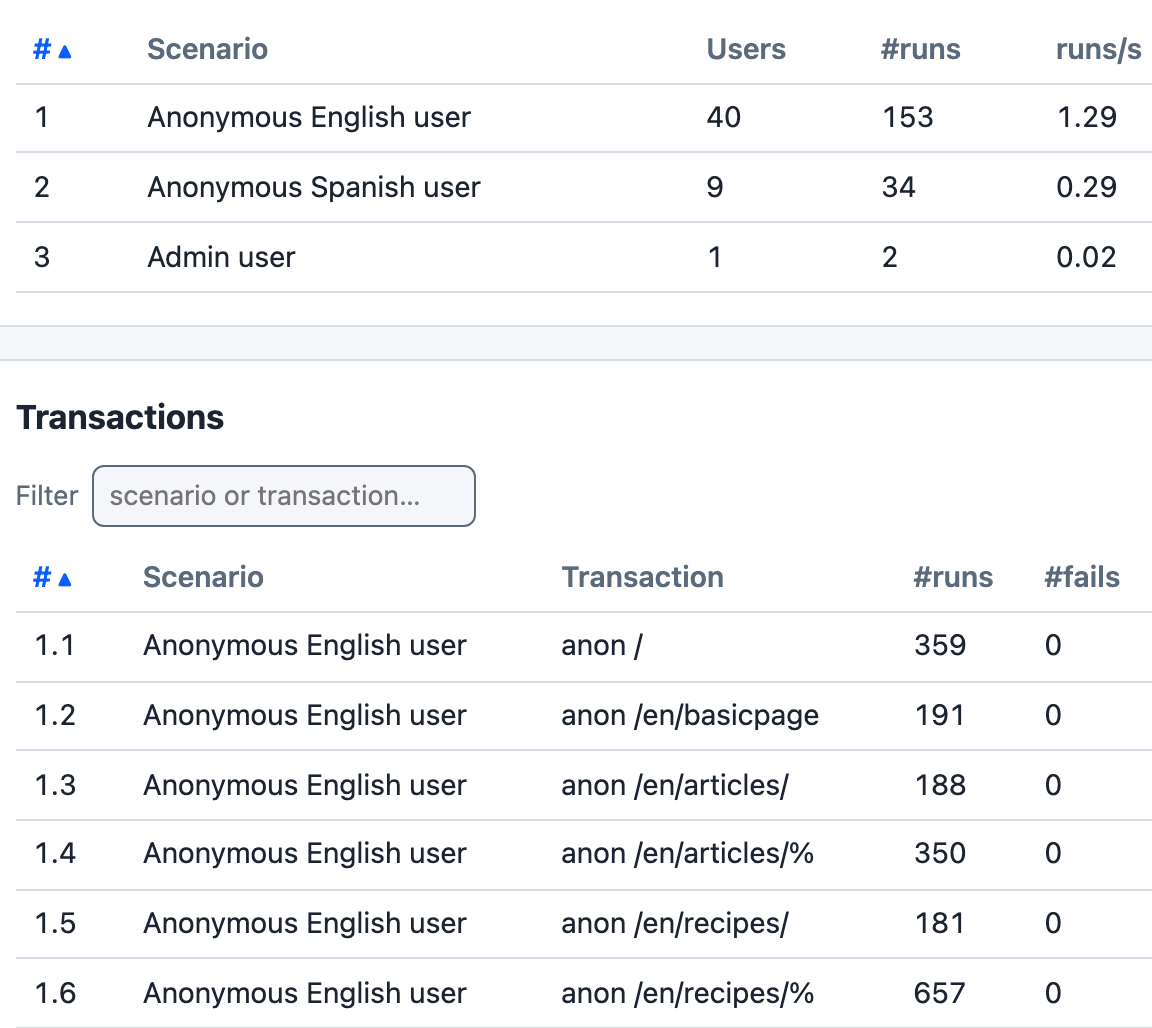
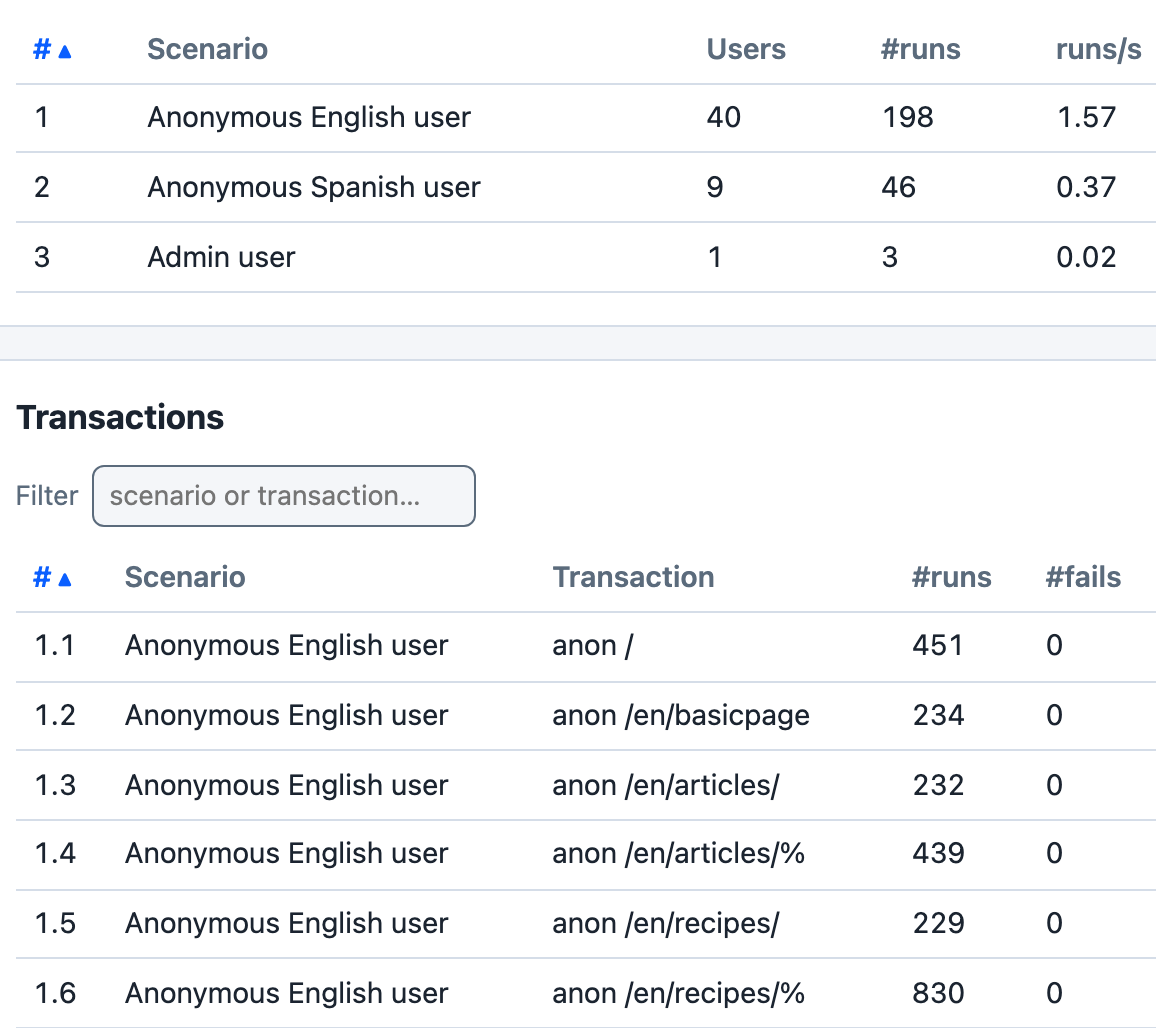
examples/umami: document Drupal 11.4, aggregation on, and the new asset names
The README says how to install a stock 11.4 Umami site (both image digests and
the install commands), that aggregation stays on, which transactions were
removed and why, and that a new site answers 503 for image derivatives being
generated. The Book page and the examples overview no longer ask readers to
turn aggregation off. The image and thumbnail are retaken from a kc1 run of the
example against a stock 11.4.11 site, aggregation on, 126 seconds in.

diff --git a/examples/umami/README.md b/examples/umami/README.md
@@ -1,21 +1,38 @@
 # Overview
 
-This is a load test for Drupal's Umami Profile, which is included as part of Drupal 9 core. In order to use this load test, you must first install the Umami Profile as documented here:
-https://www.drupal.org/docs/umami-drupal-demonstration-installation-profile
+This is a load test for Drupal's Umami demonstration profile, as Drupal 11.4 installs it. It targets Drupal 11.4 only: earlier releases install different content and modules. Install a stock site and leave it as the installer sets it up, with CSS and JS aggregation on; the load test needs nothing changed or enabled.
 
-The load test was developed using a locally hosted Drupal 9 install hosted in a DDEV container:
-https://www.ddev.com/
+By default it loads pages from `https://drupal-9.ddev.site/`. Use the `--host` flag to name the site to load test.
 
-By default it will try and load pages from https://drupal-9.ddev.site/. Use the `--host` flag to specify a different domain to load test.
+## Installing The Site
+
+One way to install the site is with two containers, both pinned by digest: the database, `mariadb:11.4@sha256:d1891ede5a559f1086f55053bb8cc1569b0298338c4d72d71725a7f74f6ba620`, with a database `drupal` and a user `drupal`, and the web server, `drupal:11-apache@sha256:f101028b47c9a39cb07869d7af298e14702d43d8ac3c0c92b632765fbeae0d0e` (Drupal 11.4.11). In the web container, with `DB_PASSWORD` and `ADMIN_PASSWORD` set and the database reachable as `db`:
+
+```
+cd /opt/drupal
+composer require drush/drush
+php -d memory_limit=-1 vendor/drush/drush/drush.php site:install demo_umami -y \
+  --db-url="mysql://drupal:${DB_PASSWORD}@db:3306/drupal" \
+  --account-name=admin --account-pass="$ADMIN_PASSWORD"
+php -d memory_limit=-1 vendor/drush/drush/drush.php config:set system.mail interface.default test_mail_collector -y
+php -d memory_limit=-1 vendor/drush/drush/drush.php cron
+chown -R www-data:www-data web/sites/default/files
+apache2-foreground
+```
+
+`site:install demo_umami` needs more memory than PHP's command line default of 128M, so drush runs with no limit. The mail setting keeps the site from trying to send mail, and the `chown` lets Apache write CSS and JS aggregates and image derivatives, as the install ran as root.
+
+The first request for each image derivative makes Drupal generate it, and while one request generates a derivative, Drupal answers every other request for it with `503 Service Unavailable` and `Retry-After: 3`. A load test against a new site counts those 503s as failures in its first seconds; a second run, with every derivative generated, has none.
 
 ## Load Test Implementation
 
 The load test is split into the following files:
  - `main.rs`: This file contains the main() function and defines the actual load test;
- - `common.rs`: This file contains helper functions used by the transaction functions;
+ - `common.rs`: This file contains helper functions used by the transaction functions, the lists of the site's nodes and terms, and the tests of its asset parsing;
  - `english.rs`: This file contains all transaction functions loading pages in English;
  - `spanish.rs`: This file contains all transaction functions loading pages in Spanish;
- - `admin.rs`: This file contains all transaction functions specific to simulating an admin user.
+ - `admin.rs`: This file contains all transaction functions specific to simulating an admin user;
+ - `fixtures/`: the English front page of a stock Drupal 11.4 Umami site, saved with CSS and JS aggregation on and with it off, for the tests.
 
 ## Load Test Features
 
@@ -26,27 +43,29 @@ The load test defines the following users:
 
 Due to user weighting, the load test should simulate at least 50 users when it runs. If you simulate 100 users (with the `-u 100` run time option) then 80 anonymous English users, 18 anonymous Spanish users, and 2 admin users will be simulated.
 
-Each anonymous load test user runs the following transactions in their own language, and also loads all static elements on any pages loaded:
+Each anonymous load test user runs the following transactions in their own language:
  - Loads the front page;
  - Loads a "basic page";
  - Loads the article listing page;
  - Loads an "article";
  - Loads the recipe listing page;
  - Loads a "recipe";
- - Loads a random node by nid;
- - Loads the term listing page filtered by a random term;
- - Performs a search using a random word from a random node's title;
- - Submits website feedback through the contact form.
+ - Loads a random node by nid (the English user only);
+ - Loads the term listing page filtered by a random term.
 
-Each admin load test user logs in one time in English, and then runs the following transactions and also loads all static elements on any pages loaded:
+The contact form and search transactions were removed, as Drupal 11.4's Umami installs neither the contact module nor node search.
+
+Each admin load test user logs in one time in English, and then runs the following transactions:
  - Loads the front page;
  - Loads the article listing page;
- - Loads an "article", edits (not making any actual changes), and saves it (flushing all caches).
+ - Loads an "article", edits (not making any actual changes), and saves it, which invalidates every cached page that shows the article or a list of nodes.
 
- ## Configuring The Admin User
+Every page is checked for its expected title, and then the load test loads the stylesheets, scripts and images the page names, as a browser would, each once: stylesheets under the request name `static css`, scripts under `static js` and images under `static image`. It finds them whether Drupal aggregates CSS and JS or not, and decodes the `&amp;` in aggregated asset URLs. It does not load the images named only in `srcset`.
 
- The load test needs to know what username and password to use to log in. By default it will attempt to log in with the username `admin` and the password `P@ssw0rd1234`. However, you can use the ADMIN_USERNAME and/or ADMIN_PASSWORD environment variables to log in with different values. In the following example, the load test will attempt to log in with the username `foo` and the password `bar`:
+## Configuring The Admin User
 
- ```
- ADMIN_USERNAME=foo ADMIN_PASSWORD=bar cargo run --release --example umami -- -H https://drupal-9.ddev.site -v -u150
- ```
+The load test needs to know what username and password to use to log in. By default it will attempt to log in with the username `admin` and the password `P@ssw0rd1234`. However, you can use the ADMIN_USERNAME and/or ADMIN_PASSWORD environment variables to log in with different values. In the following example, the load test will attempt to log in with the username `foo` and the password `bar`:
+
+```
+ADMIN_USERNAME=foo ADMIN_PASSWORD=bar cargo run --release --example umami -- -H http://umami.example.com -v -u 50
+```

diff --git a/src/docs/goose-book/src/example/umami.md b/src/docs/goose-book/src/example/umami.md
@@ -1,20 +1,22 @@
 # Umami Example
 
-The [`examples/umami`](https://github.com/tag1consulting/goose/tree/main/examples/umami) example load tests the [Umami demonstration profile](https://www.drupal.org/docs/umami-drupal-demonstration-installation-profile) included with Drupal core.
+The [`examples/umami`](https://github.com/tag1consulting/goose/tree/main/examples/umami) example load tests the [Umami demonstration profile](https://www.drupal.org/docs/umami-drupal-demonstration-installation-profile) as Drupal 11.4 installs it.
 
 <img src="umami-transactions.png" width="576" alt="The dashboard's Scenarios table with Anonymous English user at 40 users, Anonymous Spanish user at 9 and Admin user at 1, cut after its runs/s column, above the Transactions table's first six rows, anon / through anon /en/recipes/%, all for the English user, with 0 fails, cut after its #fails column">
 
-*`cargo run --release --features dashboard --example umami -- --host http://localhost:18888 -u 50 -r 5 -t 3m --no-reset-metrics --dashboard -q`, against a Drupal 11 site installed with the Umami demo profile, with CSS and JS aggregation turned off and the admin account `admin` with the password `P@ssw0rd1234`, 120 seconds in.*
+*`cargo run --release --features dashboard --example umami -- --host http://go193-target -u 50 -r 5 -t 3m --no-reset-metrics --dashboard -q`, against a stock Drupal 11.4.11 site installed with the Umami demo profile, CSS and JS aggregation on, and the admin account `admin` with its password in `ADMIN_PASSWORD`, 126 seconds in.*
 
-The Scenarios table shows that with 50 users the weights 40, 9 and 1 give exactly 40, 9 and 1 users. The Transactions table goes on past the six English rows shown here to 23 rows in all: the rest of the English user's, the Spanish user's and the admin user's. In about the first two minutes of the run, the 50 users made 61,652 requests with none failed; 57,772 of them were the images and scripts the pages name, which the example requests under the one name `static asset`. With `-q` Goose does not print the dashboard's address when it starts: open `http://127.0.0.1:5118` while the test runs. If that tab is still open when the run ends, Goose prints the address and waits for Ctrl-C.
-
-Turn CSS and JS aggregation off on the site: the example does not decode `&amp;` in the aggregated asset links it parses, so the URLs it requests still hold `&amp;` where the page meant `&`. With aggregation off it loads no CSS, because it looks for stylesheets only under the aggregated path.
+The Scenarios table shows that with 50 users the weights 40, 9 and 1 give exactly 40, 9 and 1 users. The Transactions table goes on past the six English rows shown here to 19 rows in all: the rest of the English user's, the Spanish user's and the admin user's. In the first 126 seconds of the run, the 50 users made 39,405 requests with none failed; 35,642 of them were the stylesheets, scripts and images the pages name, which the example requests under the names `static css`, `static js` and `static image`. With `-q` Goose does not print the dashboard's address when it starts: open `http://127.0.0.1:5118` while the test runs. If that tab is still open when the run ends, Goose prints the address and waits for Ctrl-C.
 
 ## Overview
 
-The Umami profile installs a sample food magazine site in English and Spanish, with articles, recipes, basic pages, several taxonomies, search and a contact form.
+The Umami profile installs a sample food magazine site in English and Spanish, with articles, recipes, basic pages and several taxonomies. The example targets a stock Drupal 11.4 Umami site, left as the installer sets it up: CSS and JS aggregation on, and nothing enabled or changed. The example's [README](https://github.com/tag1consulting/goose/blob/main/examples/umami/README.md) shows one way to install it.
 
-The included example simulates three different types of users: an anonymous user browsing the site in English (scenario `Anonymous English user`, weight 40), an anonymous user browsing the site in Spanish (`Anonymous Spanish user`, weight 9), and an administrative user that logs into the site (`Admin user`, weight 1). The anonymous users load most of the site's page types. The anonymous user browsing the site in English loads the front page, the About Umami basic page, the article listing and a random article, the recipe listing and a random recipe, a random node by node id, a random term listing, runs searches using words from the site's content, and fills out the site's contact form. The Spanish user does the same in Spanish, except loading a node by node id. The admin user logs in once, then loads the front page, the article listing, and edits and saves a random article. Goose counts any response that is not a 2xx as a failure. On each page the example also checks the HTML for the expected title and loads the images and scripts the page references.
+The included example simulates three different types of users: an anonymous user browsing the site in English (scenario `Anonymous English user`, weight 40), an anonymous user browsing the site in Spanish (`Anonymous Spanish user`, weight 9), and an administrative user that logs into the site (`Admin user`, weight 1). The anonymous users load most of the site's page types. The anonymous user browsing the site in English loads the front page, the About Umami basic page, the article listing and a random article, the recipe listing and a random recipe, a random node by node id, and a random term listing. The Spanish user does the same in Spanish, except loading a node by node id. The admin user logs in once, then loads the front page, the article listing, and edits and saves a random article. Goose counts any response that is not a 2xx as a failure. On each page the example also checks the HTML for the expected title and loads the stylesheets, scripts and images the page names, each once, under the request names `static css`, `static js` and `static image`. It finds them with aggregation on or off.
+
+Earlier versions of the example also searched the site and sent its contact form. Drupal 11.4's Umami installs neither node search nor the contact module, so those transactions were removed.
+
+The first request for each image derivative makes Drupal generate it, and while one request generates a derivative, Drupal answers the other requests for it with `503 Service Unavailable`. Against a new site, a run counts those as failures in its first seconds; once every derivative the example loads has been generated, a run has none.
 
 The example load tests `https://drupal-9.ddev.site/` unless `--host` names another site. The admin user logs in as `admin` with the password `P@ssw0rd1234`; set the `ADMIN_USERNAME` or `ADMIN_PASSWORD` environment variable to change either.
 

diff --git a/CHANGELOG.md b/CHANGELOG.md
@@ -4,6 +4,11 @@
 
 ## 0.19.1-dev
 
+ - [#PR](https://github.com/tag1consulting/goose/pull/PR) `examples/umami` runs against a stock Drupal 11.4 Umami site, with CSS and JS aggregation on or off; it targets 11.4 only
+    o the contact form and search transactions are removed: 11.4's Umami installs neither the contact module nor node search, so they only got 404s
+    o the mushroom article is requested at its 11.4 alias, `the-umami-guide-to-our-favorite-mushrooms`, not `favourite`
+    o pages' aggregated CSS and JS URLs are requested with `&amp;` decoded to `&`; Drupal answered the undecoded URLs with 400
+    o stylesheets are found with aggregation off too, from every `<link rel="stylesheet">`, where only the aggregated path was searched; assets load once per page, as `static css`, `static js` and `static image`
  - [#791](https://github.com/tag1consulting/goose/pull/791) the JSON report wrote sub millisecond minimums, maximums and percentiles as 0, from the whole millisecond fields `Millis` serializes truncated; each row now also writes every one in microseconds, as `percentile_50_us`, `response_time_minimum_us` and so on beside the unchanged whole millisecond fields, so the JSON report agrees with the HTML and Markdown reports, and loads as a baseline in 0.19.0 as before
  - [#791](https://github.com/tag1consulting/goose/pull/791) **deprecation**: the JSON report's whole millisecond row fields, `percentile_*`, `response_time_minimum` and `response_time_maximum` without `_us`, are deprecated; they truncate to whole milliseconds, so read the `_us` fields beside them; Goose 0.20 stops writing them, stops loading 0.18 reports as baselines, and writes reports that 0.19.x can't load as baselines
 

diff --git a/src/docs/goose-book/src/example/overview.md b/src/docs/goose-book/src/example/overview.md
@@ -46,6 +46,6 @@ A Locust load test ported to Goose: anonymous and logged in users, form tokens r
 
 ## Umami
 
-Three kinds of visitor (English, Spanish and admin), most of the site's page types, forms, and each page's images and scripts. Needs: a Drupal site installed with the Umami demo profile, with CSS and JS aggregation off and an admin account the example can log in with. Source: [examples/umami/](https://github.com/tag1consulting/goose/tree/main/examples/umami)
+Three kinds of visitor (English, Spanish and admin), most of the site's page types, the log in and article edit forms, and each page's stylesheets, scripts and images. Needs: a stock Drupal 11.4 site installed with the Umami demo profile, aggregation left on, and an admin account the example can log in with. Source: [examples/umami/](https://github.com/tag1consulting/goose/tree/main/examples/umami)
 
 <a href="umami.html"><img src="thumbs/umami.png" width="424" alt="The dashboard's Scenarios table: Anonymous English user with 40 users, Anonymous Spanish user with 9 and Admin user with 1"></a>
